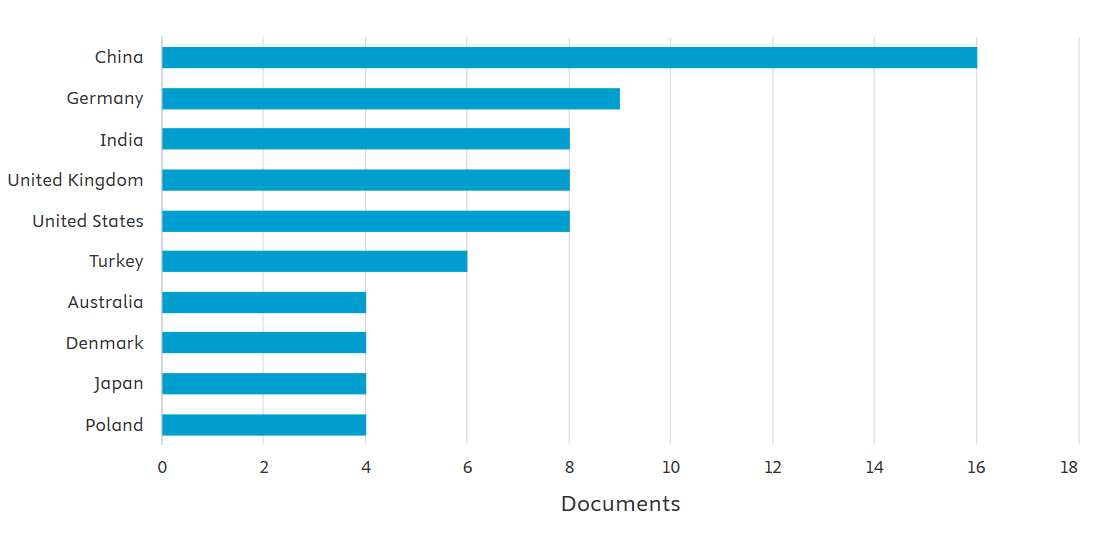
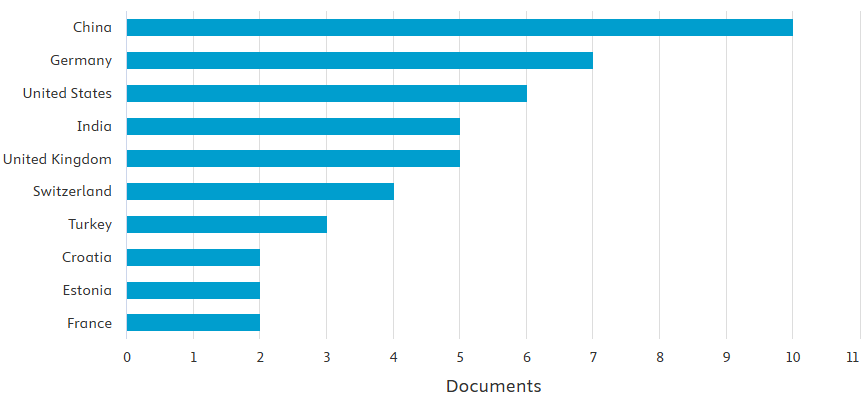
refatorado trabalhos relacionados para 5 anos

diff --git a/textual/t3-trabalhos-relacionados.tex b/textual/t3-trabalhos-relacionados.tex
@@ -121,7 +121,7 @@ A estratégia de seleção dos artigos foi baseada em critérios de inclusão e 
 
 \section{Caracterização de pesquisa}
 \label{section:caracterizacao_pesquisa}
-Na \autoref{fig:docs_by_year}, é apresentado o número de publicações identificadas por ano, entre 2015 e 2025. Observa-se um crescimento gradual a partir de 2015, com alguns picos notáveis em 2018 e principalmente em 2023, que apresentou o maior número de documentos publicados (15). Após esse ápice, verifica-se uma queda acentuada em 2024 e um número ainda reduzido em 2025, reflexo do fato de que a busca foi realizada no mês de abril deste mesmo ano, não contemplando ainda todas as publicações do período. Ao todo, foram encontrados 96 documentos relevantes para a pesquisa, distribuídos de forma desigual ao longo dos anos, evidenciando o crescente interesse da comunidade científica pelo tema, especialmente nos últimos cinco anos.
+Na \autoref{fig:docs_by_year}, é apresentado o número de publicações identificadas por ano, no intervalo entre 2020 e 2025. Observa-se um crescimento progressivo de 2020 a 2023, culminando em um pico em 2023, com 15 documentos publicados. A partir desse ponto, nota-se uma queda significativa: em 2024, o número de publicações cai para 9, e em 2025 esse número se reduz ainda mais, atingindo apenas 3 documentos. Essa redução pode ser parcialmente atribuída ao fato de que a coleta foi realizada no mês de abril de 2025, o que possivelmente não contempla todas as publicações previstas para o ano. No total, foram encontrados 50 documentos relevantes, distribuídos de forma desigual, evidenciando uma tendência crescente de interesse pelo tema até 2023, seguido de uma possível estabilização ou atraso na indexação dos dados mais recentes.
 
 \begin{figure}[H]
     \centering
@@ -131,7 +131,7 @@ Na \autoref{fig:docs_by_year}, é apresentado o número de publicações identif
     \label{fig:docs_by_year}
 \end{figure}
 
-Na \autoref{fig:docs_by_country} são apresentados os países com maior número de publicações relacionadas ao tema desta pesquisa. Observa-se que a China lidera com 16 documentos, seguida pela Alemanha, com 9 publicações. Em seguida, aparecem Índia, Reino Unido e Estados Unidos, cada um com 8 documentos. Outros países com destaque incluem Turquia (6), Austrália, Dinamarca, Japão e Polônia, todos com 4 publicações. Esses dados indicam uma concentração significativa de estudos em países com forte presença tecnológica e acadêmica, especialmente na Ásia, Europa Ocidental e América do Norte, refletindo o interesse global na comparação entre abordagens de renderização em aplicações web modernas.
+Na \autoref{fig:docs_by_country} são apresentados os países com maior número de publicações relacionadas ao tema desta pesquisa. Observa-se que a China lidera com 10 documentos, seguida pela Alemanha (7) e pelos Estados Unidos (6). Em seguida, aparecem Índia, Reino Unido e Suíça, cada um com 5 documentos publicados. A Turquia também se destaca com 4 publicações, enquanto Croácia, Estônia e França completam a lista com 2 documentos cada. Esses dados evidenciam uma concentração relevante de estudos em países com infraestrutura tecnológica consolidada, especialmente na Ásia, Europa Ocidental e América do Norte, o que reforça o caráter global do interesse em torno da comparação entre abordagens de renderização no desenvolvimento de aplicações web.
 
 \begin{figure}[H]
     \centering
@@ -151,3 +151,4 @@ Na \autoref{fig:docs_by_country} são apresentados os países com maior número 
 \label{section:resultados_discussao}
 
 
+% https://www-scopus-com.ez135.periodicos.capes.gov.br/results/results.uri?sort=plf-f&src=s&sid=c5e620a132b74a852dccc08c5c330e9d&sot=a&sdt=cl&sl=247&s=%28TITLE-ABS-KEY%28%22Client-Side+Rendering%22+OR+%22CSR%22+OR+%22Server-Side+Rendering%22+OR+%22SSR%22%29%29+AND+%28TITLE-ABS-KEY%28%22web+performance%22+OR+%22page+speed%22+OR+%22web+optimization%22+OR+%22SEO%22+OR+%22search+engine+optimization%22+OR+%22user+experience%22+OR+%22UX%22+OR+%22usability%22%29%29&origin=resultslist&editSaveSearch=&txGid=584773b92f904689225d6d8bd0143429&sessionSearchId=c5e620a132b74a852dccc08c5c330e9d&limit=10&yearFrom=2020&yearTo=2025
